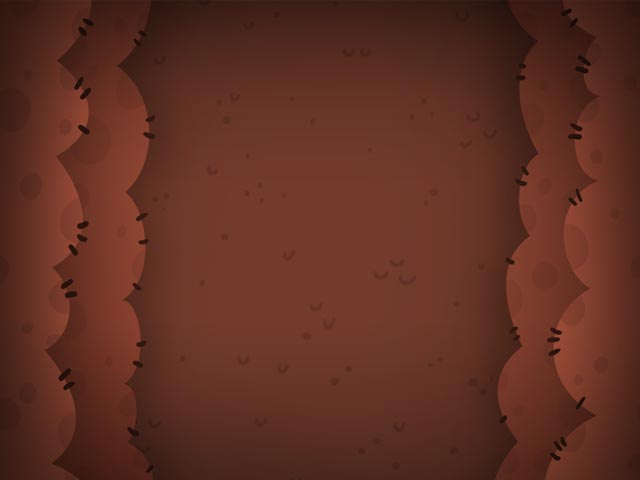
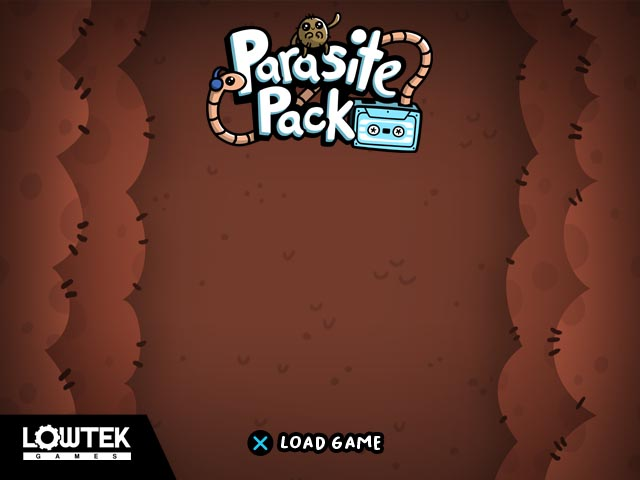
more menu stuff

Changed region(s): [[0.3125, 0.0312, 0.6875, 0.3438], [0.0, 0.8438, 0.2812, 1.0], [0.375, 0.875, 0.625, 0.9688]]

diff --git a/src/drivers/ps2/coverflow.c b/src/drivers/ps2/coverflow.c
@@ -1,7 +1,8 @@
 /*
  * Cover flow launcher: PNG art in <elf_dir>/images/ matches <stem>.nes in roms/.
  * Background: BG.png / bg.png (or .jpg) in images/ — loaded after cover art so VRAM for it is not
- * overwritten by many tile textures. D-pad L/R, X = launch, Triangle = file browser.
+ * overwritten by many tile textures. Optional FG.png / fg.png (PNG only) drawn above BG with alpha.
+ * D-pad L/R, X = launch, Triangle = file browser.
  */
 
 #include <stdio.h>
@@ -23,9 +24,13 @@ extern u32 old_pad[4];
 
 #define CF_MAX_ITEMS 48
 #define CF_SLOT_SPACING 200.0f
-#define CF_SCALE_CENTER 1.12f
-#define CF_SCALE_SIDE 0.58f
-#define CF_BASE_HEIGHT 200.0f
+#define CF_SCALE_CENTER 1.26f
+#define CF_SCALE_SIDE 0.68f
+#define CF_BASE_HEIGHT 232.0f
+#define CF_CAROUSEL_Y_OFFSET 20.0f
+#define CF_Z_BG 0
+#define CF_Z_FG 2
+#define CF_Z_SLOT_BASE 10
 
 typedef struct {
 	char stem[96];
@@ -128,26 +133,68 @@ static int cf_load_background(GSGLOBAL *gs, GSTEXTURE *bg, const char *img_dir)
 	for (n = png_names; *n; n++) {
 		cf_join(path, sizeof path, img_dir, *n);
 		memset(bg, 0, sizeof *bg);
-		if (gsKit_texture_png(gs, bg, path) >= 0 && bg->Width > 0 && bg->Height > 0)
+		if (gsKit_texture_png(gs, bg, path) != -1 && bg->Width > 0 && bg->Height > 0)
 			return 1;
 	}
 	for (n = jpg_names; *n; n++) {
 		cf_join(path, sizeof path, img_dir, *n);
 		memset(bg, 0, sizeof *bg);
-		if (gsKit_texture_jpeg(gs, bg, path) >= 0 && bg->Width > 0 && bg->Height > 0)
+		if (gsKit_texture_jpeg(gs, bg, path) != -1 && bg->Width > 0 && bg->Height > 0)
 			return 1;
 	}
 	memset(bg, 0, sizeof *bg);
 	return 0;
 }
 
-static void cf_release_textures(CF_Item *items, int nitems, GSTEXTURE *bg)
+/* PNG only — expect alpha channel for transparency */
+static int cf_load_foreground(GSGLOBAL *gs, GSTEXTURE *fg, const char *img_dir)
+{
+	char path[512];
+	static const char *const png_names[] = {
+		"FG.png", "fg.png", "Fg.png", "FG.PNG", "foreground.png", "Foreground.png", NULL
+	};
+	const char *const *n;
+	struct stat st;
+
+	memset(fg, 0, sizeof *fg);
+	for (n = png_names; *n; n++) {
+		cf_join(path, sizeof path, img_dir, *n);
+		if (stat(path, &st) != 0 || !S_ISREG(st.st_mode))
+			continue;
+		if (gsKit_texture_png(gs, fg, path) != -1 && fg->Width > 0 && fg->Height > 0)
+			return 1;
+		memset(fg, 0, sizeof *fg);
+	}
+	return 0;
+}
+
+static void cf_draw_fg_with_alpha(GSTEXTURE *fg)
+{
+	u64 old_alpha;
+	u8 old_pabe;
+
+	old_alpha = gsGlobal->PrimAlpha;
+	old_pabe = gsGlobal->PABE;
+	gsKit_set_primalpha(gsGlobal, GS_SETREG_ALPHA(0, 1, 0, 1, 0), 1);
+	gsKit_prim_sprite_texture(gsGlobal, fg,
+		0.0f, 0.0f, 0.0f, 0.0f,
+		(float)gsGlobal->Width, (float)gsGlobal->Height,
+		(float)fg->Width, (float)fg->Height, CF_Z_FG,
+		GS_SETREG_RGBA(0x80, 0x80, 0x80, 0x00));
+	gsKit_set_primalpha(gsGlobal, old_alpha, old_pabe);
+}
+
+static void cf_release_textures(CF_Item *items, int nitems, GSTEXTURE *bg, GSTEXTURE *fg)
 {
 	int i;
 
 	if (bg && bg->Mem) {
 		free(bg->Mem);
 		bg->Mem = NULL;
+	}
+	if (fg && fg->Mem) {
+		free(fg->Mem);
+		fg->Mem = NULL;
 	}
 	for (i = 0; i < nitems; i++) {
 		if (items[i].tex.Mem) {
@@ -183,12 +230,14 @@ int Coverflow_SelectRom(char *out_path, size_t outsz, const char *elf_dir)
 {
 	CF_Item items[CF_MAX_ITEMS];
 	GSTEXTURE bg;
+	GSTEXTURE fg;
 	int nitems = 0;
 	DIR *d;
 	struct dirent *de;
 	char img_dir[512];
 	int i, sel = 0;
 	int bg_ok = 0;
+	int fg_ok = 0;
 	u32 new_pad;
 	int had_pad;
 	char line[80];
@@ -198,6 +247,7 @@ int Coverflow_SelectRom(char *out_path, size_t outsz, const char *elf_dir)
 
 	memset(items, 0, sizeof items);
 	memset(&bg, 0, sizeof bg);
+	memset(&fg, 0, sizeof fg);
 
 	cf_join(img_dir, sizeof img_dir, elf_dir, "images");
 
@@ -217,7 +267,7 @@ int Coverflow_SelectRom(char *out_path, size_t outsz, const char *elf_dir)
 			continue;
 		memcpy(stem, name, nl - 4);
 		stem[nl - 4] = '\0';
-		if (strcasecmp(stem, "BG") == 0)
+		if (strcasecmp(stem, "BG") == 0 || strcasecmp(stem, "FG") == 0)
 			continue;
 		if (!cf_find_nes(elf_dir, stem, items[nitems].nes_path, sizeof items[nitems].nes_path))
 			continue;
@@ -240,7 +290,10 @@ int Coverflow_SelectRom(char *out_path, size_t outsz, const char *elf_dir)
 			items[i].tex_ok = 0;
 	}
 
+	/* gsKit_texture_png/jpeg already upload to VRAM — do not call gsKit_texture_upload again
+	 * or TBW/stride gets wrong and BG/FG look garbled. */
 	bg_ok = cf_load_background(gsGlobal, &bg, img_dir);
+	fg_ok = cf_load_foreground(gsGlobal, &fg, img_dir);
 
 	cf_pad_reset();
 
@@ -250,7 +303,7 @@ int Coverflow_SelectRom(char *out_path, size_t outsz, const char *elf_dir)
 
 	for (;;) {
 		float cx = (float)gsGlobal->Width * 0.5f;
-		float cy = (float)gsGlobal->Height * 0.52f;
+		float cy = (float)gsGlobal->Height * 0.52f + CF_CAROUSEL_Y_OFFSET;
 		int k;
 
 		new_pad = 0;
@@ -262,7 +315,7 @@ int Coverflow_SelectRom(char *out_path, size_t outsz, const char *elf_dir)
 			if (new_pad & PAD_CROSS) {
 				strncpy(out_path, items[sel].nes_path, outsz - 1);
 				out_path[outsz - 1] = '\0';
-				cf_release_textures(items, nitems, &bg);
+				cf_release_textures(items, nitems, &bg, &fg);
 				return 1;
 			}
 			if (new_pad & PAD_LEFT) {
@@ -283,14 +336,17 @@ int Coverflow_SelectRom(char *out_path, size_t outsz, const char *elf_dir)
 			gsKit_prim_sprite_texture(gsGlobal, &bg,
 				0.0f, 0.0f, 0.0f, 0.0f,
 				(float)gsGlobal->Width, (float)gsGlobal->Height,
-				(float)bg.Width, (float)bg.Height, 0,
+				(float)bg.Width, (float)bg.Height, CF_Z_BG,
 				GS_SETREG_RGBA(0x80, 0x80, 0x80, 0x00));
 		}
+
+		if (fg_ok)
+			cf_draw_fg_with_alpha(&fg);
 
 		for (k = -2; k <= 2; k++) {
 			int idx = sel + k;
 			float scale = (k == 0) ? CF_SCALE_CENTER : CF_SCALE_SIDE;
-			int z = 5 - (k * k);
+			int z = CF_Z_SLOT_BASE + (5 - (k * k));
 
 			while (idx < 0)
 				idx += nitems;
@@ -304,12 +360,10 @@ int Coverflow_SelectRom(char *out_path, size_t outsz, const char *elf_dir)
 			FCEUSkin.textcolor ? FCEUSkin.textcolor : GS_SETREG_RGBA(0xff, 0xff, 0xff, 0xff), 1, 0);
 		printXY(line, 40, 56, 20,
 			FCEUSkin.textcolor ? FCEUSkin.textcolor : GS_SETREG_RGBA(0xc0, 0xc0, 0xc0, 0xff), 1, 0);
-		printXY(items[sel].stem, (int)(cx - 60), (int)(cy + CF_BASE_HEIGHT * 0.5f + 24), 25,
-			FCEUSkin.highlight ? FCEUSkin.highlight : GS_SETREG_RGBA(0xff, 0xe0, 0x40, 0xff), 1, 0);
 
 		DrawScreen(gsGlobal);
 	}
 
-	cf_release_textures(items, nitems, &bg);
+	cf_release_textures(items, nitems, &bg, &fg);
 	return 0;
 }

diff --git a/src/drivers/ps2/build_stamp.h b/src/drivers/ps2/build_stamp.h
@@ -1,5 +1,5 @@
 /* Generated by Makefile; new ID each rebuild */
 #ifndef LOWTEK_BUILD_STAMP_H
 #define LOWTEK_BUILD_STAMP_H
-#define LOWTEK_BUILD_ID "Wfz2E"
+#define LOWTEK_BUILD_ID "vPTXI"
 #endif
